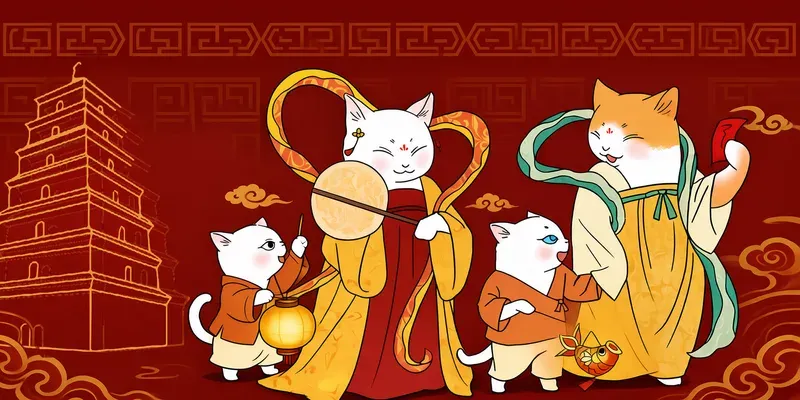
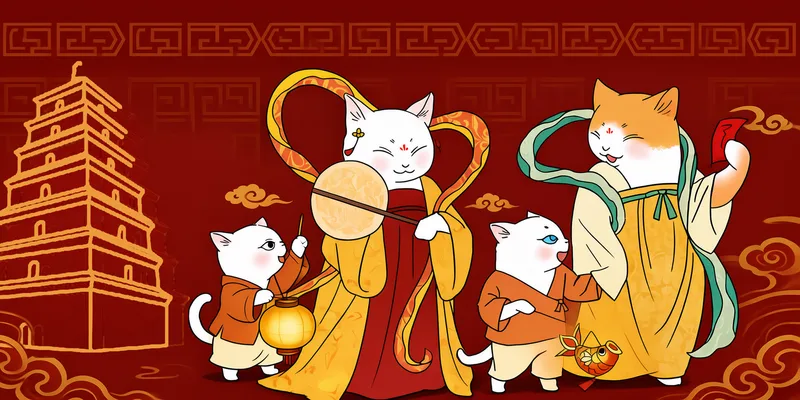
修复: 首页大雁塔移植v2——顶部三层右檐连线补全(线加粗扛压缩)/塔尖残线清除/门拱与回纹带残影根治

Changed region(s): [[0.0, 0.12, 0.2188, 0.9]]

diff --git a/index.html b/index.html
@@ -98,7 +98,7 @@
                     </div>
 
                     <div class="text-center mt-4 mb-2">
-                        <img src="/assets/illustrations/hero-tangcat.webp?v=20260928b" alt="唐猫庭院 · 三只唐装猫与大雁塔" class="img-fluid" style="width:100%;max-width:640px;border-radius:14px;border:1px solid rgba(201,169,110,0.45);box-shadow:0 8px 28px rgba(0,0,0,0.45);">
+                        <img src="/assets/illustrations/hero-tangcat.webp?v=20260928c" alt="唐猫庭院 · 三只唐装猫与大雁塔" class="img-fluid" style="width:100%;max-width:640px;border-radius:14px;border:1px solid rgba(201,169,110,0.45);box-shadow:0 8px 28px rgba(0,0,0,0.45);">
                     </div>
                 </div>
 
